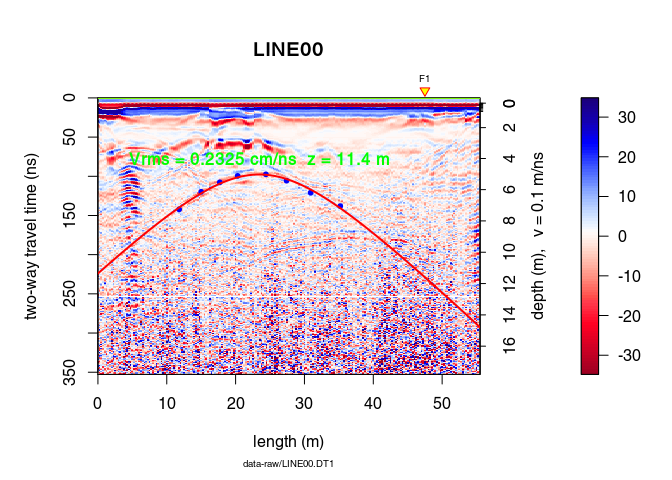
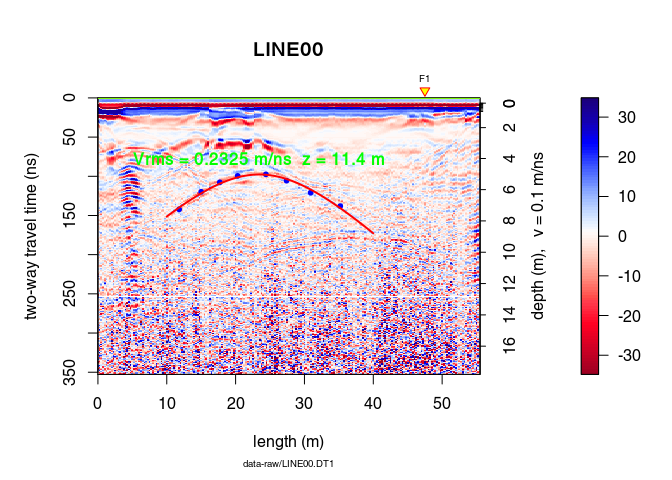
update

diff --git a/07_RGPR_tutorial_hyperbola_fitting.md b/07_RGPR_tutorial_hyperbola_fitting.md
@@ -1,7 +1,7 @@
 ---
 layout: page
 title: Hyperbola fitting
-date: 2019-10-18
+date: 2019-10-19
 ---
 
 <!--
@@ -26,6 +26,9 @@ Table of Contents
     -   [Basic processing](#basic-processing)
 -   [Hyperbola fitting](#hyperbola-fitting)
     -   [Interactive point selection and hyperbola fitting](#interactive-point-selection-and-hyperbola-fitting)
+    -   [Plot the fitted hyperbola](#plot-the-fitted-hyperbola)
+    -   [Plot an hyperbola defined by its vertex position and the root-mean-square velocity](#plot-an-hyperbola-defined-by-its-vertex-position-and-the-root-mean-square-velocity)
+    -   [Simulate an hyperbola](#simulate-an-hyperbola)
 
 Objectives of this tutorial
 ===========================
@@ -90,32 +93,92 @@ Select points interactively on the plot with
 xy <- locator(type = "l")
 ```
 
-Fit the corresponding hyperbola:
+    ## $x
+    ## [1] 11.8 15.0 17.7 20.3 24.4 27.4 30.9 35.2
+    ##
+    ## $y
+    ## [1] 142.2 119.8 107.7  99.5  97.5 105.6 120.9 138.1
+
+Fit the corresponding hyperbola with the function `hyperbolaFit()`:
 
 ``` r
 hyp <- hyperbolaFit(xy)
 ```
 
-``` r
-plot(x)
-points(xy, pch = 20, col = "blue")
-hyperbolaPlot(hyp, x = seq(5, 50, by = 0.01), col = "red", lwd = 2)
-```
+Plot the fitted hyperbola
+-------------------------
+
+-   Plot the hyperbola for x-position ranging from 5 to 50:
+
+    ``` r
+    plot(x)
+    points(xy, pch = 20, col = "blue")
+    hyperbolaPlot(hyp, x = seq(5, 50, by = 0.01), col = "red", lwd = 2)
+    ```
 
 ![plot1a](07_RGPR_tutorial_hyperbola_fitting_tp_files/figure-markdown_github/plot1a-1.png)
 
-``` r
-plot(x)
-points(xy, pch = 20, col = "blue")
-hyperbolaPlot(hyp, col = "red", lwd = 2)
-```
+-   Plot the hyperbola without defining its x-position (in this case the hyperbola is displayed over the entire plot)
+
+    ``` r
+    plot(x)
+    points(xy, pch = 20, col = "blue")
+    hyperbolaPlot(hyp, col = "red", lwd = 2)
+    ```
 
 ![plot1b](07_RGPR_tutorial_hyperbola_fitting_tp_files/figure-markdown_github/plot1b-1.png)
 
-``` r
-plot(x)
-points(xy, pch = 20, col = "blue")
-hyperbolaPlot(hyp, col = "red", lwd = 2, ann = TRUE)
-```
+-   Define the hyperbola range with `xlim` and add some annotations:
+
+    ``` r
+    plot(x)
+    points(xy, pch = 20, col = "blue")
+    hyperbolaPlot(hyp, col = "red", lwd = 2, xlim = c(10, 40), ann = TRUE)
+    ```
 
 ![plot1c](07_RGPR_tutorial_hyperbola_fitting_tp_files/figure-markdown_github/plot1c-1.png)
+
+Plot an hyperbola defined by its vertex position and the root-mean-square velocity
+----------------------------------------------------------------------------------
+
+Define the hyperbola parameters
+
+``` r
+hyp2 <- list(x0 = hyp$x0, t0 = hyp$t0, vrms = hyp$vrms)
+```
+
+Plot the hyperbola
+
+``` r
+plot(x)
+points(hyp$x0, hyp$t0, pch = 20, col = "red", cex = 1.3)
+hyperbolaPlot(hyp2, col = "blue", lwd = 2, ann = TRUE)
+```
+
+![hyp\_parameters\_plot](07_RGPR_tutorial_hyperbola_fitting_tp_files/figure-markdown_github/hyp2_plot-1.png)
+
+Simulate an hyperbola
+---------------------
+
+-   Using the output of `hyperbolaFit()`:
+
+    ``` r
+    x <- seq(5, 45, by = 0.1)
+    y <- hyperbolaSim(x, hyp)
+    plot(x)
+    lines(x, y)
+    ```
+
+![sim1](07_RGPR_tutorial_hyperbola_fitting_tp_files/figure-markdown_github/sim1-1.png)
+
+-   Defining its vertex position and the root-mean-square velocity:
+
+    ``` r
+    hyp2 <- list(x0 = hyp$x0, t0 = hyp$t0, vrms = hyp$vrms)
+    x <- seq(5, 45, by = 0.1)
+    y <- hyperbolaSim(x, hyp2)
+    plot(x)
+    lines(x, y)
+    ```
+
+![sim2](07_RGPR_tutorial_hyperbola_fitting_tp_files/figure-markdown_github/sim2-1.png)

diff --git a/80_RGPR_GPR-data-free-to-download.md b/80_RGPR_GPR-data-free-to-download.md
@@ -1,7 +1,7 @@
 ---
 layout: page
 title: Free GPR data
-date: 2019-10-14
+date: 2019-10-19
 ---
 
 <!--

diff --git a/70_RGPR_tutorial_class-GPR.md b/70_RGPR_tutorial_class-GPR.md
@@ -1,7 +1,7 @@
 ---
 layout: page
 title: Class GPR
-date: 2019-10-14
+date: 2019-10-19
 ---
 
 <!--
